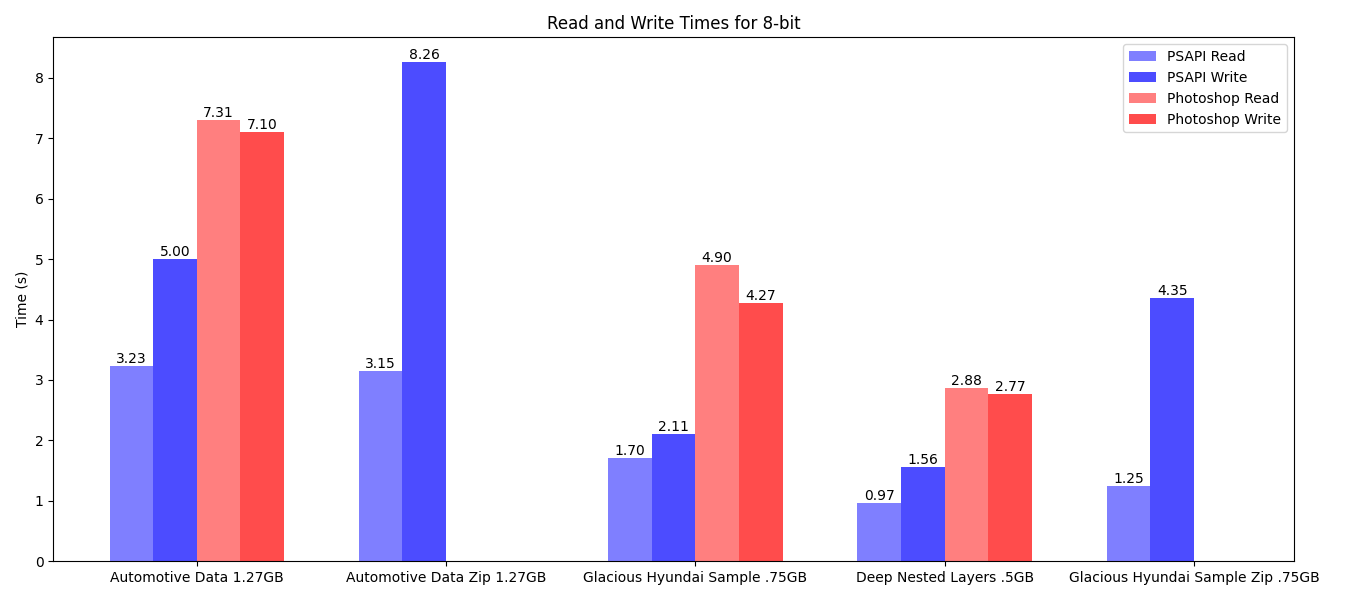
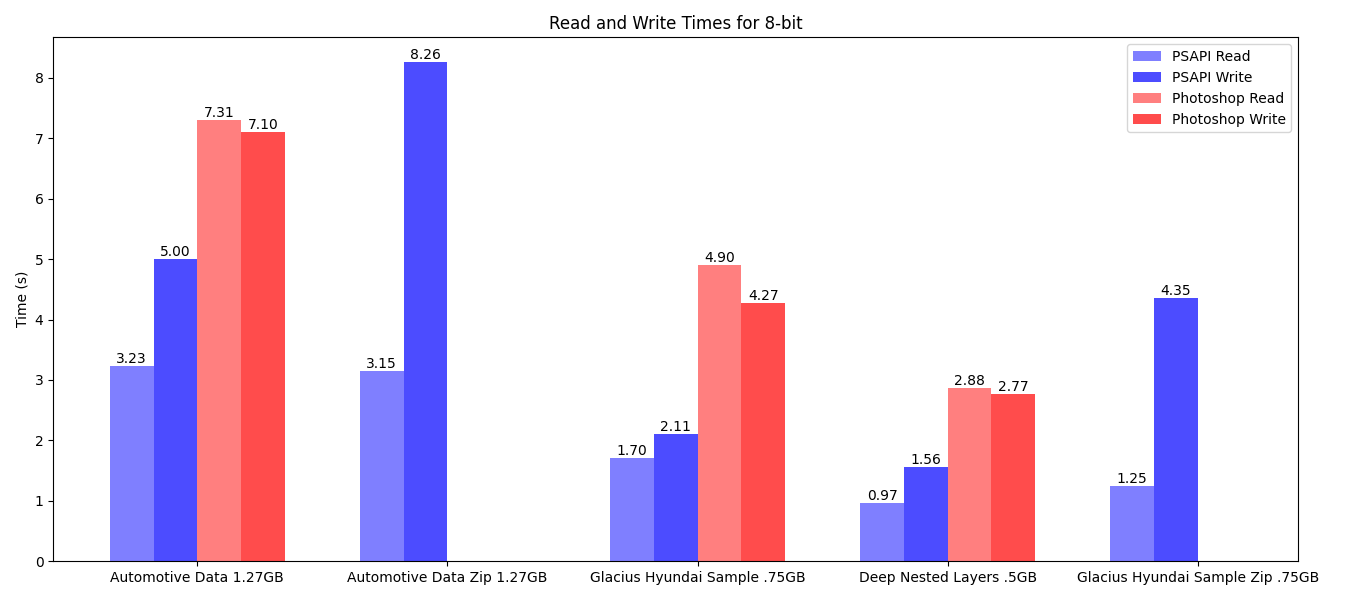
Update docs to fix spelling mistake in Glacius' name

diff --git a/PhotoshopBenchmark/src/main.cpp b/PhotoshopBenchmark/src/main.cpp
@@ -96,8 +96,8 @@ int main()
 	readWriteFileChangeCompression<bpp8_t>(repeats, "documents/read/large_file_8bit.psb", "documents/write/large_fileZip_8bit.psb", "Automotive Data Zip (8-bit) ~1.27GB");
 	readWriteFile<bpp16_t>(repeats, "documents/read/large_file_16bit.psb", "documents/write/large_file_16bit.psb", "Automotive Data (16-bit) ~1.97GB");
 	readWriteFile<bpp32_t>(repeats, "documents/read/large_file_32bit.psb", "documents/write/large_file_32bit.psb", "Automotive Data (32-bit) ~3.65GB");
-	readWriteFile<bpp8_t>(repeats, "documents/read/HyundaiGenesis_GlaciousCreations_8bit.psd", "documents/write/HyundaiGenesis_GlaciousCreations_8bit.psd", "Glacious Hyundai Sample (8-bit) ~.75GB");
+	readWriteFile<bpp8_t>(repeats, "documents/read/HyundaiGenesis_GlaciusCreations_8bit.psd", "documents/write/HyundaiGenesis_GlaciusCreations_8bit.psd", "Glacius Hyundai Sample (8-bit) ~.75GB");
 	readWriteFile<bpp8_t>(repeats, "documents/read/deep_nesting_8bit.psb", "documents/write/deep_nesting_8bit.psb", "Deep Nested Layers (8-bit) ~.5GB");
 	// Benchmark how changing the compression reduces the file size
-	readWriteFileChangeCompression<bpp8_t>(repeats, "documents/read/HyundaiGenesis_GlaciousCreations_8bit.psd", "documents/write/HyundaiGenesis_GlaciousCreationsZip_8bit.psd", "Glacious Hyundai Sample Zip (8-bit) ~.75GB");
+	readWriteFileChangeCompression<bpp8_t>(repeats, "documents/read/HyundaiGenesis_GlaciusCreations_8bit.psd", "documents/write/HyundaiGenesis_GlaciusCreationsZip_8bit.psd", "Glacius Hyundai Sample Zip (8-bit) ~.75GB");
 }

diff --git a/PhotoshopBenchmark/src/benchmark_photoshop.py b/PhotoshopBenchmark/src/benchmark_photoshop.py
@@ -15,7 +15,7 @@ def run_benchmarks(repeats: int = 3) -> None:
         "Automotive Data (32-bit) ~3.65GB" : ["documents/read/large_file_32bit.psb", "documents/write/large_file_32bit.psb"],
         "Automotive Data (8-bit) ~1.27GB" : ["documents/read/large_file_8bit.psb", "documents/write/large_file_8bit.psb"],
         "Automotive Data (16-bit) ~1.97GB" : ["documents/read/large_file_16bit.psb", "documents/write/large_file_16bit.psb"],
-        "Glacious Hyundai Sample (8-bit) ~.75GB" : ["documents/read/HyundaiGenesis_GlaciousCreations_8bit.psd", "documents/write/HyundaiGenesis_GlaciousCreations_8bit.psd"],
+        "Glacius Hyundai Sample (8-bit) ~.75GB" : ["documents/read/HyundaiGenesis_GlaciusCreations_8bit.psd", "documents/write/HyundaiGenesis_GlaciusCreations_8bit.psd"],
         "Deep Nested Layers (8-bit) ~.5GB" : ["documents/read/deep_nesting_8bit.psb", "documents/write/deep_nesting_8bit.psb"],
     }
 

diff --git a/docs/doxygen/benchmarks.rst b/docs/doxygen/benchmarks.rst
@@ -86,9 +86,9 @@ This test file mirrors a lot of the layers of the automotive data file but inste
 by having many deep nested layers. The resolution is unchanged from the automotive data file but with **19 image layers and 32 groups instead**.
 
 
-**Glacious Hyundai Benchmark File:**
+**Glacius Hyundai Benchmark File:**
 
-This sample was graciously provided by `Glacious Creations (Christer Stormark) <https://www.behance.net/cstormark7b40>`_ and is supposed to highlight a Photoshop file
+This sample was graciously provided by `Glacius Creations (Christer Stormark) <https://www.behance.net/cstormark7b40>`_ and is supposed to highlight a Photoshop file
 you would commonly when working with photography and applying adjustments that way. While the overall resolution is lower at **4532x6000** pixels the amount of layers is much
 larger at **320 image layers and 12 groups** with many layer mask and mostly empty layers.
 
@@ -278,7 +278,7 @@ data.
     :width: 49%
 .. image:: /images/benchmarks/FileSizes/Deep_Nested_Layers_(8-bit)_combined_plot.png
     :width: 49%
-.. image:: /images/benchmarks/FileSizes/Glacious_Hyundai_Sample_(8-bit)_combined_plot.png
+.. image:: /images/benchmarks/FileSizes/Glacius_Hyundai_Sample_(8-bit)_combined_plot.png
     :width: 98.6%
 
 
